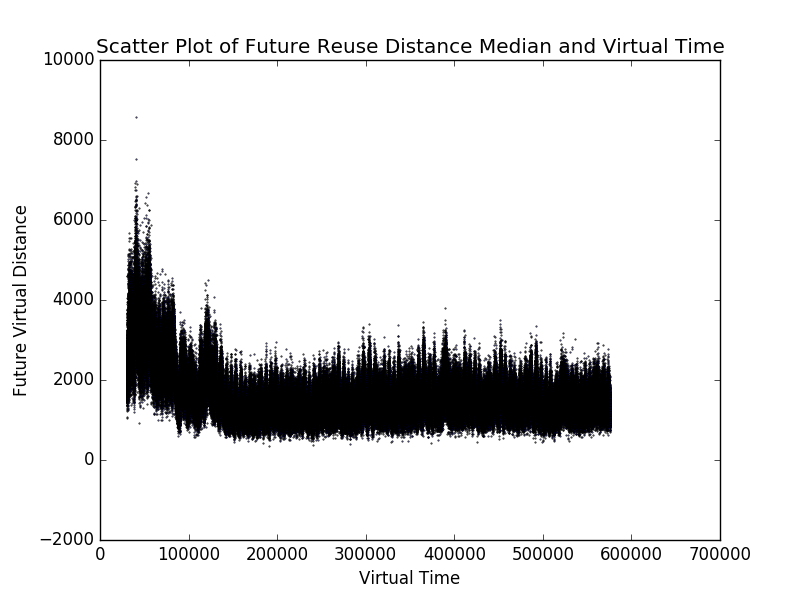
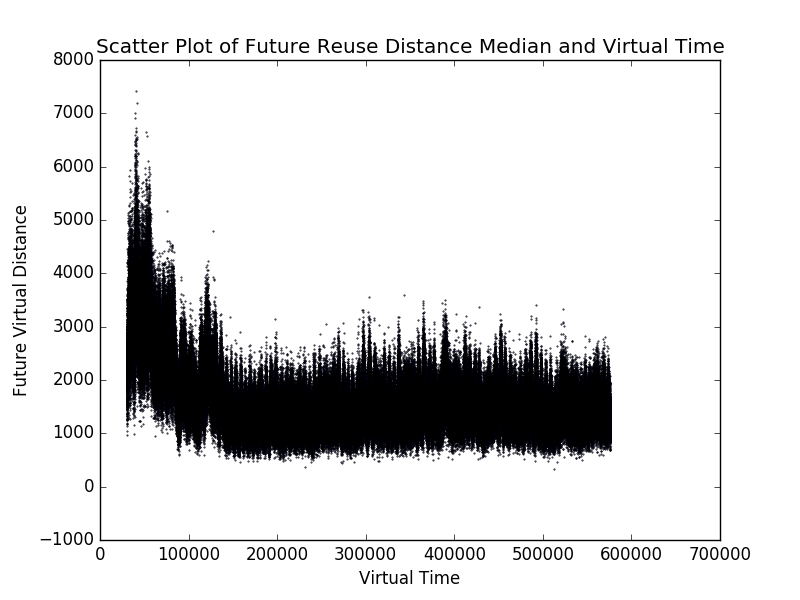
qqq

diff --git a/opt_analysis.py b/opt_analysis.py
@@ -1,153 +1,212 @@
 import numpy as np
 import random, sys, time
 import matplotlib
-matplotlib.use('Agg')
+matplotlib.use('agg')
 from matplotlib import pyplot as plt
 from PyMimircache.cacheReader.csvReader import CsvReader
 from PyMimircache.cache.optimal import Optimal
 
-init_params = {'label': 2}
-file_name = sys.argv[1] # Command Line Argument
-reader = CsvReader('/research/george/ranktest/features/' + file_name + '.csv',
-    init_params=init_params)
+def main():
+    init_params = {'label': 2, 'real_time': 1}
+    file_name = sys.argv[1]
+    reader = CsvReader('/research/george/ranktest/traces/shared/' + file_name + '_no_feat.csv',
+        init_params=init_params)
 
-cache_size = 500
-rand_factor = 0.1
-opt = Optimal(cache_size, reader)
-
-# Timestamp values
-fut_rd_arr1 = []
-# Future Reuse values
-fut_rd_arr2 = []
-
-# Median values
-med_x = []
-med_y = []
-
-# Evict Distance values
-ev_x = []
-ev_y = []
-
-#Dict to store the last vtime for a given id
-id_to_vtime = {}
-
-t0 = time.time()
-for request in reader:
-    ev_item = []
-    opt.access(request, evict_item_list=ev_item)
-    id_to_vtime[request] = opt.ts
-    temp_lst = []
-    for req_id in opt.pq:
-        if random.random() < rand_factor:
-            fut_rd_arr1.append(opt.ts)
-            fut_rd_arr2.append(-opt.pq[req_id] - opt.ts)
-            temp_lst.append(-opt.pq[req_id] - opt.ts) 
-    if temp_lst:
-        med_x.append(opt.ts)
-        med_y.append(np.median(temp_lst))
-    if ev_item:
-        ev_x.append(opt.ts)
-        ev_y.append(opt.ts - id_to_vtime[ev_item[0]])
-    if (opt.ts % 100000 == 0):
-        print('progress', opt.ts)
-
-t1 = time.time()  
-print('Time for Iteration: ', str(t1-t0))
-
-x = fut_rd_arr1 # virtual time
-y = fut_rd_arr2 # future reuse distance
-
-# Scatter plot of virtual time and future reuse distance
-plt.figure(1)
-
-samples = np.random.randint(0, len(x), size=int(0.1*len(x))) # Samples 10% of values to plot
-x_sample = [x[i] for i in samples]
-y_sample = [y[i] for i in samples]
-
-plt.scatter(x_sample, y_sample, s=0.2)
-plt.title('Scatter Plot of Future Reuse Distances and Virtual Time')
-plt.xlabel('Virtual Time')
-plt.ylabel('Future Virtual Distance')
-plt.savefig('img/scatter_' + file_name + '_size_' + str(cache_size) + '.png')
-
-t2 = time.time()
-print('Time for Scatter Plot: ', str(t2-t1))
-
-# 2D Histogram
-plt.figure(2)
-
-plt.hist2d(x, y, bins=[opt.ts//100, 25], range=[[0, opt.ts], [0, cache_size*10]])
-plt.title('2D Histogram of Future Reuse Distance Frequency and Virtual Time')
-plt.xlabel('Virtual Time')
-plt.ylabel('Future Virtual Distance')
-plt.savefig('img/hist_' + file_name + '_size_' + str(cache_size) + '.png')
-
-t3 = time.time()
-print('Time for 2D Histogram: ', str(t3-t2))
-
-# Median Future Reuse Distance
-plt.figure(3)
-
-length = len(med_x)
-med_x = med_x[int(0.05*length):int(0.95*length)]
-med_y = med_y[int(0.05*length):int(0.95*length)]
-
-plt.scatter(med_x, med_y, s=0.2)
-plt.title('Scatter Plot of Future Reuse Distance Median and Virtual Time')
-plt.xlabel('Virtual Time')
-plt.ylabel('Future Virtual Distance')
-plt.savefig('img/median_' + file_name + '_size_' + str(cache_size) + '.png')
-
-t4 = time.time()
-print('Time for Median Plot: ', str(t4-t3))
-
-# Eviction Distance
-plt.figure(4)
-
-length = len(ev_x)
-ev_x = ev_x[int(0.05*length):int(0.95*length)]
-ev_y = ev_y[int(0.05*length):int(0.95*length)]
-
-plt.scatter(ev_x, ev_y, s=0.2)
-plt.title('Scatter Plot of Eviction Distance and Virtual Time')
-plt.xlabel('Virtual Time')
-plt.ylabel('Future Virtual Distance')
-plt.savefig('img/evict_dist_' + file_name + '_size_' + str(cache_size) + '.png')
-
-t5 = time.time()
-print('Time for Eviction Distance Plot: ', str(t5-t4))
-
-# Average Eviction Distance
-plt.figure(5)
-
-avg_ev_x = []
-avg_ev_y = []
-bucket_size = 100
-
-count = 0
-temp_x_lst = []
-temp_y_lst = []
-for index, dist in enumerate(ev_y):
-    if count == bucket_size:
-        avg_ev_x.append(temp_x_lst[-1])
-        avg_ev_y.append(np.mean(temp_y_lst))
-        count = 0
-        temp_x_lst = []
-        temp_y_lst = []
-    temp_x_lst.append(ev_x[index])
-    temp_y_lst.append(dist)
-    count += 1
-
-plt.scatter(avg_ev_x, avg_ev_y, s=0.2)
-plt.title('Scatter Plot of Average Eviction Distance and Virtual Time')
-plt.xlabel('Virtual Time')
-plt.ylabel('Future Virtual Distance')
-plt.savefig('img/evict_dist_avg_' + file_name + '_size_' + str(cache_size) + '.png')
-
-t6 = time.time()
-print('Time for Average Eviction Distance Plot: ', str(t6-t5))
+    cache_size = 5001
+    rand_factor = 0.005 # Take X% of values in the cache to analyze
+    opt = Optimal(cache_size, reader)
     
-        
+    # Timestamp values
+    fut_rd_arr1 = []
+    # Future Reuse values
+    fut_rd_arr2 = []
+
+    # Median values
+    med_x = []
+    med_y = []
+    #q3_y = []
+
+    # Evict Distance values
+    ev_x = []
+    ev_y = []
+
+    #Dict to store the last vtime for a given id
+    id_to_vtime = {}
+
+    t0 = time.time()
+    for request in reader:
+        ev_item = []
+        opt.access(request, evict_item_list=ev_item)
+        id_to_vtime[request] = opt.ts
+        temp_lst = []
+        for req_id in opt.pq:
+            if random.random() < rand_factor:
+                #fut_rd_arr1.append(opt.ts)
+                #fut_rd_arr2.append(-opt.pq[req_id] - opt.ts)
+                temp_lst.append(-opt.pq[req_id] - opt.ts) 
+        if temp_lst:
+            med_x.append(opt.ts)
+            med_y.append(np.median(temp_lst))
+            #q3_y.append(np.percentile(temp_lst, 75))
+        if ev_item and opt.ts != id_to_vtime[ev_item[0]]:
+            ev_x.append(opt.ts)
+            ev_y.append(opt.ts - id_to_vtime[ev_item[0]])
+        if (opt.ts % 100000 == 0):
+            print('progress', opt.ts)
+
+    t1 = time.time()  
+    print('Time for Iteration: ', str(t1-t0))
+
+    """ x = fut_rd_arr1 # virtual time
+    y = fut_rd_arr2 # future reuse distance
+
+    # Scatter plot of virtual time and future reuse distance
+    plt.figure(1)
+
+    samples = np.random.randint(0, len(x), size=int(0.01*len(x))) # Samples 1% of values to plot
+    x_sample = [x[i] for i in samples]
+    y_sample = [y[i] for i in samples]
+
+    plt.scatter(x_sample, y_sample, s=0.2)
+    plt.title('Scatter Plot of Future Reuse Distances and Virtual Time')
+    plt.xlabel('Virtual Time')
+    plt.ylabel('Future Virtual Distance')
+    plt.savefig('img/scatter_' + file_name + '_size_' + str(cache_size) + '.png')
+
+    t2 = time.time()
+    print('Time for Scatter Plot: ', str(t2-t1)) """
+
+    # 2D Histogram
+    """ plt.figure(2)
+
+    plt.hist2d(x, y, bins=[opt.ts//100, 25], range=[[0, opt.ts], [0, cache_size*10]])
+    plt.title('2D Histogram of Future Reuse Distance Frequency and Virtual Time')
+    plt.xlabel('Virtual Time')
+    plt.ylabel('Future Virtual Distance')
+    plt.savefig('img/hist_' + file_name + '_size_' + str(cache_size) + '.png')
+
+    t3 = time.time()
+    print('Time for 2D Histogram: ', str(t3-t2)) """
+
+    # Median Future Reuse Distance
+    plt.figure(3)
+
+    length = len(med_x)
+    med_x = med_x[int(0.05*length):int(0.95*length)]
+    med_y = med_y[int(0.05*length):int(0.95*length)]
+
+    bucket_size = 50
+    temp_y_med_lst = []
+    #temp_y_q3_lst = []
+    avg_x_fut_dist = []
+    avg_y_med_fut_dist = []
+    avg_y_q3_fut_dist = []
+    for index, dist in enumerate(med_y):
+        if index % bucket_size == bucket_size - 1:
+            avg_x_fut_dist.append(med_x[index])
+            avg_y_med_fut_dist.append(np.median(temp_y_med_lst))
+            avg_y_q3_fut_dist.append(np.percentile(temp_y_med_lst, 75))
+            #avg_y_q3_fut_dist.append(np.mean(temp_y_q3_lst))
+            temp_y_med_lst = []
+            #temp_y_q3_lst = []
+        temp_y_med_lst.append(dist)
+        #temp_y_q3_lst.append(q3_y[index])
+
+    """ samples = np.random.randint(0, len(med_x), size=int(0.05*len(med_x))) # Samples X% of values to plot
+    med_x = [med_x[i] for i in samples]
+    med_y = [med_y[i] for i in samples]
+    q3_y = [q3_y[i] for i in samples] """
+    
+    fut_rd_med = plt.scatter(avg_x_fut_dist, avg_y_med_fut_dist, s=0.2, c='b', edgecolors='none')
+    plt.title('Scatter Plot of Future Reuse Distance Stats and Virtual Time')
+    plt.xlabel('Virtual Time')
+    plt.ylabel('Future Virtual Distance')
+    #plt.savefig('img/median_' + file_name + '_size_' + str(cache_size) + '.png')
+
+    fut_rd_q3 = plt.scatter(avg_x_fut_dist, avg_y_q3_fut_dist, s=0.2, c='g', edgecolors='none')
+    plt.legend((fut_rd_med, fut_rd_q3), ('Median', 'Q3'), loc='upper right', markerscale=5.0)
+
+    plt.savefig('img/fut_rd_stats_' + file_name + '_size_' + str(cache_size) + '.png')
+    plt.close()
+
+    t4 = time.time()
+    print('Time for Median/Q3 Plot: ', str(t4-t1))
+    
+
+    # Autocorrelation :(
+    plt.figure(4)
+    fig, axs = plt.subplots(nrows=2)
+
+    reduction_factor = 7
+    avg_y_med_fut_dist = [avg_y_med_fut_dist[i] for i in range(len(avg_y_med_fut_dist)) if i % reduction_factor == 0]
+    avg_y_q3_fut_dist = [avg_y_q3_fut_dist[i] for i in range(len(avg_y_q3_fut_dist)) if i % reduction_factor == 0]
+    
+    axs[0].acorr(avg_y_med_fut_dist, maxlags=20000, normed=True)
+    axs[1].acorr(avg_y_q3_fut_dist, maxlags=20000, normed=True)
+    for ax in axs:
+        ax.set(ylabel='Future Virtual Distance')
+    axs[1].set(xlabel='Lags (Virtual Time)')
+    axs[0].set_title('Future RD Median Auto-Correlation')
+    axs[1].set_title('Future RD Q3 Auto-Correlation')
+    fig.savefig('img/fut_rd_med_q3_autocorr_' + file_name + '_size_' + str(cache_size) + '.png')
+
+    t5 = time.time()
+    print('Time for Median/Q3 Auto-Correlation: ', str(t5-t4)) 
+    
+
+    # Eviction Distance
+    """ plt.figure(4)
+
+    length = len(ev_x)
+    ev_x = ev_x[int(0.05*length):int(0.95*length)]
+    ev_y = ev_y[int(0.05*length):int(0.95*length)]
+
+    plt.scatter(ev_x, ev_y, s=0.2)
+    plt.title('Scatter Plot of Eviction Distance and Virtual Time')
+    plt.xlabel('Virtual Time')
+    plt.ylabel('Future Virtual Distance')
+    plt.savefig('img/evict_dist_' + file_name + '_size_' + str(cache_size) + '.png')
+
+    t5 = time.time()
+    print('Time for Eviction Distance Plot: ', str(t5-t4)) """
+
+    # Percentile Eviction Distance
+    plt.figure(5)
+
+    avg_ev_x = []
+    p70_ev_y = []
+    p80_ev_y = []
+    p90_ev_y = []
+    bucket_size = 100
+
+    #temp_x_lst = []
+    temp_y_lst = []
+    for index, dist in enumerate(ev_y):
+        if index % bucket_size == bucket_size - 1:
+            avg_ev_x.append(ev_x[index])
+            p70_ev_y.append(np.percentile(temp_y_lst, 70))
+            p80_ev_y.append(np.percentile(temp_y_lst, 80))
+            p90_ev_y.append(np.percentile(temp_y_lst, 90))
+            #temp_x_lst = []
+            temp_y_lst = []
+        #temp_x_lst.append(ev_x[index])
+        temp_y_lst.append(dist)
+
+    p70_ev = plt.scatter(avg_ev_x, p70_ev_y, s=2, c='r', edgecolors='none')
+    p80_ev = plt.scatter(avg_ev_x, p80_ev_y, s=2, c='g', edgecolors='none')
+    p90_ev = plt.scatter(avg_ev_x, p90_ev_y, s=2, c='b', edgecolors='none')
+    plt.title('Scatter Plot of Average Eviction Distance and Virtual Time')
+    plt.xlabel('Virtual Time')
+    plt.ylabel('Future Virtual Distance')
+    plt.yscale('log')
+    plt.legend((p70_ev, p80_ev, p90_ev), ('P70', 'P80', 'P90'), loc='upper right', markerscale=1.0)
+    plt.savefig('img/evict_dist_stats_' + file_name + '_size_' + str(cache_size) + '.png')
+
+    t6 = time.time()
+    print('Time for Average Eviction Distance Plot: ', str(t6-t4)) 
+    
+if __name__ == '__main__':
+    main()
 
 
 
